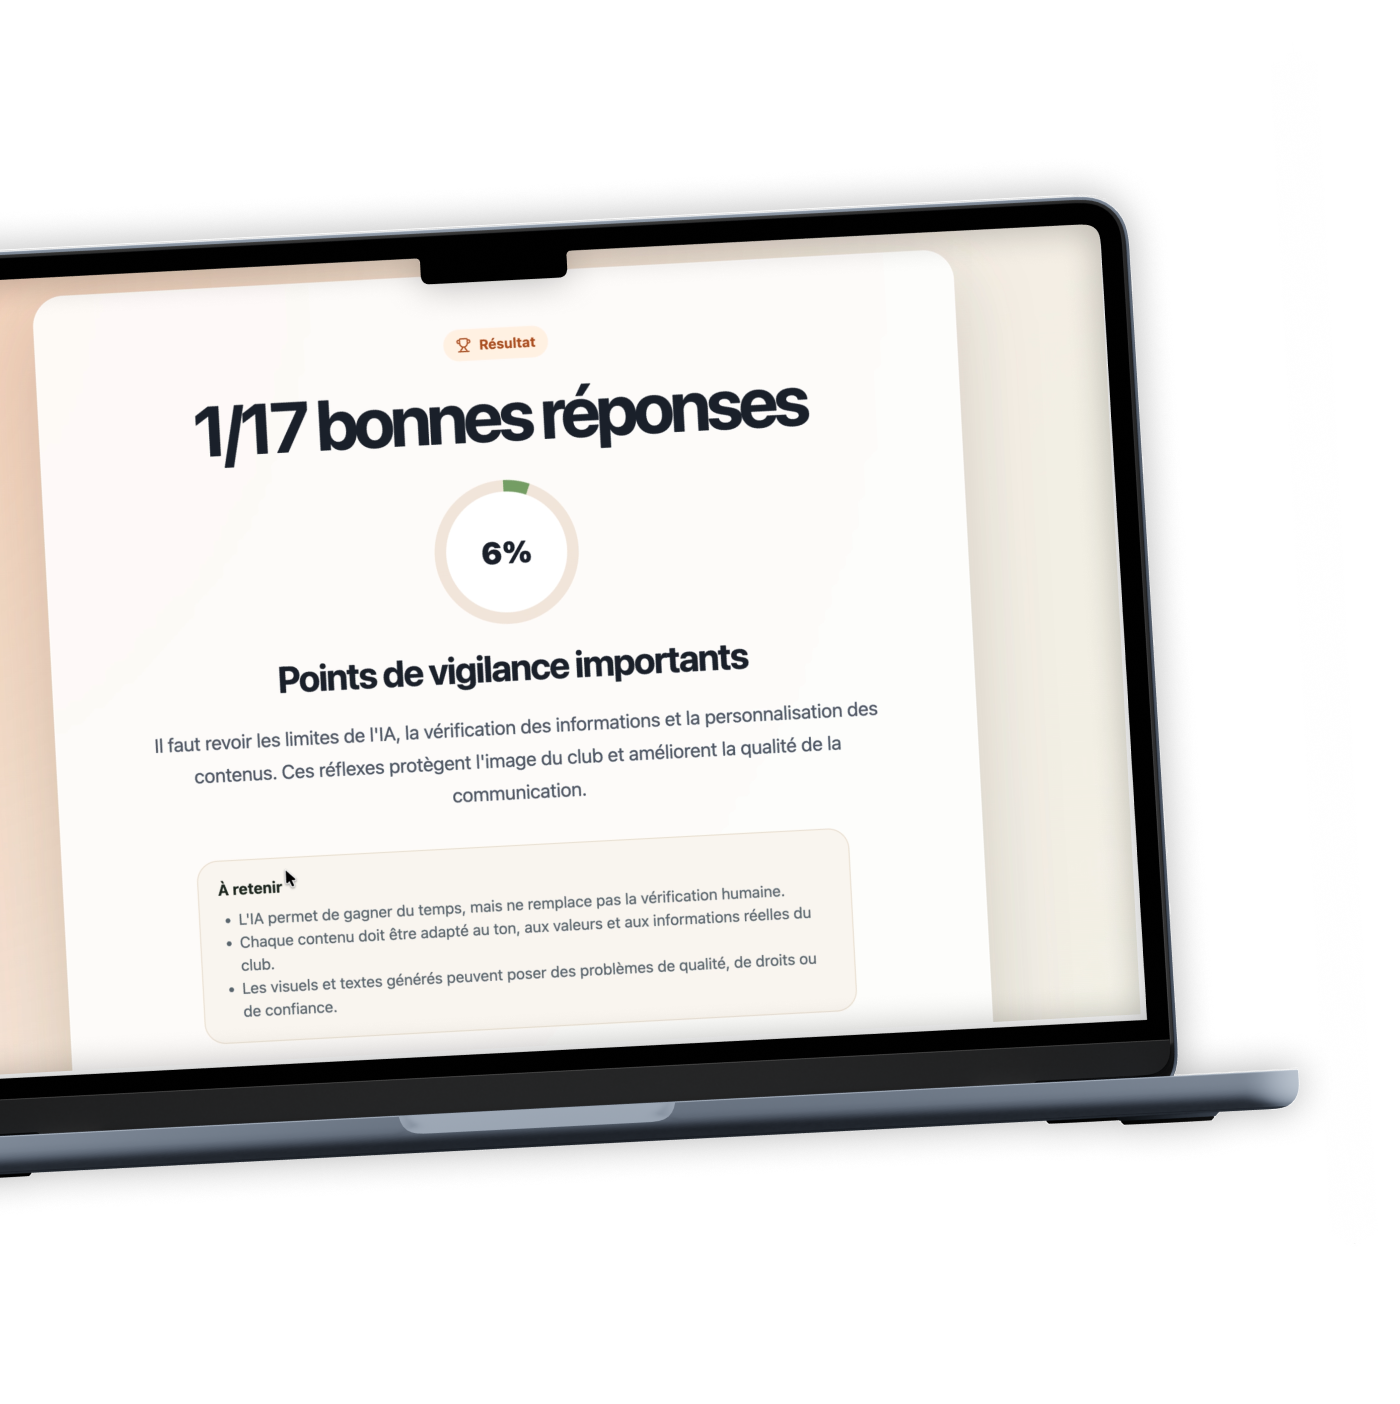
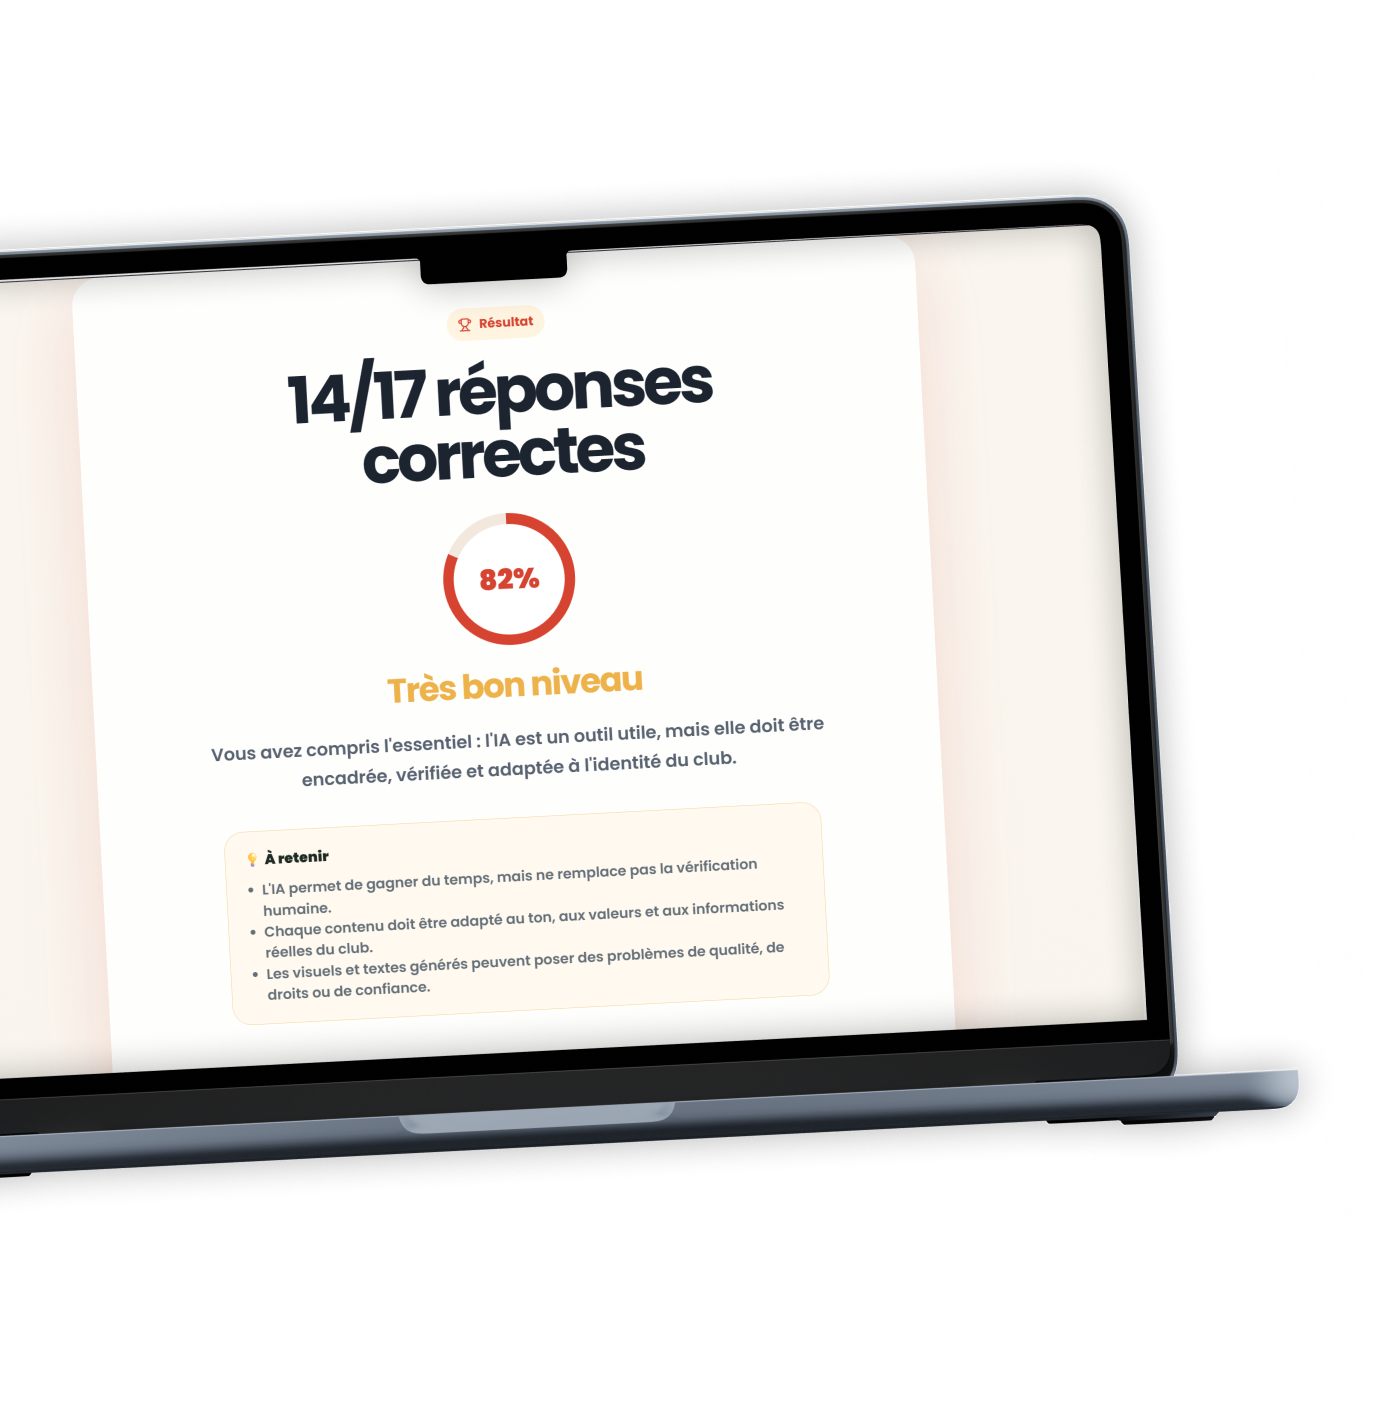
update assets and landing page style

diff --git a/src/styles.css b/src/styles.css
@@ -4,7 +4,7 @@
   font-style: normal;
   color: #1c2430;
   background: #ffffff;
-  --site-max-width: 1400px;
+  --site-max-width: 1279px;
   font-synthesis: none;
   text-rendering: optimizeLegibility;
 }
@@ -44,6 +44,65 @@ button {
   backdrop-filter: blur(18px);
 }
 
+.logo {
+  width: 100%;
+  padding: 40px 16px 0;
+  display: flex;
+  justify-content: center;
+  margin-inline: auto;
+  position: relative;
+  overflow: visible;
+}
+
+/* shared logo image */
+.logo .logo-placeholder {
+  position: relative;
+  z-index: 1;
+  /* width: 500px; */
+  height: auto;
+  background: none;
+  border-radius: 0;
+  display: block;
+  max-width: 100%;
+}
+
+/* header-specific semicircle (top) */
+.logo-header::before {
+  content: "";
+  position: absolute;
+  top: 0;
+  left: 50%;
+  transform: translateX(-50%);
+  width: min(380px, 80%);
+  height: 190px;
+  background: #ffffff;
+  border-radius: 0 0 999px 999px;
+  z-index: 0;
+}
+
+.logo-footer && logo {
+  padding-block-end: 20px;
+}
+
+/* footer-specific semicircle (inverted, bottom) */
+.logo-footer::after {
+  content: "";
+  position: absolute;
+  bottom: 0;
+  left: 50%;
+  transform: translateX(-50%);
+  width: min(380px, 80%);
+  height: 190px;
+  background: #ffffff;
+  border-radius: 999px 999px 0 0;
+  z-index: 0;
+}
+
+/* move only the footer logo up without moving the semicircle */
+.logo-footer .logo-placeholder {
+  transform: translateY(-50px);
+  padding-top: 150px;
+}
 .fade-in {
   animation: fadeIn 0.35s ease both;
 }
@@ -141,7 +200,6 @@ h2 {
   border-radius: 999px;
   padding: 14px 22px;
   cursor: pointer;
-  font-weight: 800;
   transition:
     transform 0.2s ease,
     box-shadow 0.2s ease,
@@ -449,28 +507,47 @@ h2 {
   padding: 40px 16px 0;
   display: flex;
   justify-content: center;
+  margin-inline: auto;
+  position: relative;
+  overflow: visible;
+}
+
+.logo-header::before {
+  content: "";
+  position: absolute;
+  top: 0;
+  left: 50%;
+  transform: translateX(-50%);
+  width: min(380px, 80%);
+  height: 190px;
+  background: #ffffff;
+  border-radius: 0 0 999px 999px;
+  z-index: 0;
 }
 
 .logo-placeholder {
-  width: 500px;
-  height: auto;
-  background: none;
-  border-radius: 0;
+  position: relative;
+  z-index: 1;
   display: block;
-  max-width: 100%;
 }
 
 .hero-wrapper {
-  background: radial-gradient(ellipse at top, #ffd2aa 0%, #fff7ec 100%);
+  background: radial-gradient(
+    circle at top center,
+    rgba(234, 70, 41, 0.4) 0%,
+    rgba(214, 67, 48, 0.35) 18%,
+    rgba(250, 222, 205, 0.9) 55%,
+    rgba(255, 247, 236, 1) 90%
+  );
 }
 
 .hero-section {
-  min-height: 60vh;
+  /* min-height: 50vh; */
   display: flex;
   flex-direction: column;
   align-items: center;
   justify-content: center;
-  padding: 60px 16px;
+  padding: 130px 16px 60px;
   text-align: center;
 }
 
@@ -484,7 +561,7 @@ h2 {
   max-width: 800px;
 }
 
-.hero-title .highlight {
+.highlight {
   color: #d64330;
   font-weight: 600;
 }
@@ -506,12 +583,12 @@ h2 {
   background-color: #faf7f2;
   background-image: url("/assets/vector_1.svg");
   background-repeat: no-repeat;
-  background-position: right -350px;
+  background-position: 0 -250px;
   background-size: 100% auto;
   padding: 150px 0;
   display: flex;
   flex-direction: column;
-  gap: 150px;
+  gap: 180px;
 }
 
 .content-section {
@@ -529,8 +606,13 @@ h2 {
   margin-bottom: 80px;
 }
 
+.section-content {
+  padding-top: 50px;
+  align-self: start;
+}
+
 .content-section:nth-of-type(odd) .section-content {
-  margin-inline-start: 20px;
+  margin-inline-start: 75px;
 }
 
 .section-content h2 {
@@ -559,6 +641,10 @@ h2 {
   justify-content: center;
 }
 
+.icon {
+  margin-bottom: 16px;
+}
+
 .image-placeholder {
   width: 100%;
   aspect-ratio: 4 / 3;
@@ -575,9 +661,15 @@ h2 {
 }
 
 .final-cta {
-  padding: 80px 16px;
+  padding: 80px 16px 0;
   text-align: center;
-  background: radial-gradient(ellipse at bottom, #ffd2aa 0%, #fff7ec 100%);
+  background: radial-gradient(
+    circle at bottom center,
+    rgba(234, 70, 41, 0.4) 0%,
+    rgba(214, 67, 48, 0.35) 18%,
+    rgba(250, 222, 205, 0.9) 55%,
+    rgba(255, 247, 236, 1) 90%
+  );
 }
 
 .final-cta h2 {

diff --git a/src/components/HomePage.jsx b/src/components/HomePage.jsx
@@ -5,9 +5,9 @@ export default function HomePage({ onStartQuiz }) {
     <main className="homepage">
       {/* Logo + Hero Section */}
       <div className="hero-wrapper">
-        <div className="logo-header">
+        <div className="logo logo-header">
           <img
-            src="/assets/logo_machina.svg"
+            src="/assets/logo_machina.png"
             alt="Logo du club"
             className="logo-placeholder"
           />
@@ -32,6 +32,11 @@ export default function HomePage({ onStartQuiz }) {
       <div className="content-wrapper">
         <section className="content-section">
           <div className="section-content">
+            <img
+              src="/assets/question.png"
+              alt="logo question"
+              className="icon"
+            />
             <h2>Répondez à des situations concrètes</h2>
             <p>
               Mettez-vous dans la peau d'un bénévole chargé de la communication
@@ -57,11 +62,12 @@ export default function HomePage({ onStartQuiz }) {
             />
           </div>
           <div className="section-content">
+            <img src="/assets/time.png" alt="logo horloge" className="icon" />
             <h2>Découvrez vos résultats et progressez</h2>
             <p>
-              Obtenez un débriefing personnalisé, identifiez vos points de
-              vigilance et découvrez les bonnes pratiques pour utiliser l'IA de
-              manière plus efficace et responsable.
+              Obtenez un débriefing, identifiez vos points de vigilance et
+              découvrez les bonnes pratiques pour utiliser l'IA de manière plus
+              efficace et responsable.
             </p>
           </div>
         </section>
@@ -69,6 +75,7 @@ export default function HomePage({ onStartQuiz }) {
         {/* Section 3: Repartez avec votre fiche mémo */}
         <section className="content-section">
           <div className="section-content">
+            <img src="/assets/doc.png" alt="logo fiche mémo" className="icon" />
             <h2>Repartez avec votre fiche mémo</h2>
             <p>
               À l'issue du parcours, recevez une fiche synthétique regroupant
@@ -88,7 +95,9 @@ export default function HomePage({ onStartQuiz }) {
 
       {/* CTA Section */}
       <section className="final-cta">
-        <h2>Prêt à relever le défi ?</h2>
+        <h2>
+          Prêt à relever le <span className="highlight">défi</span> ?
+        </h2>
         <p>
           Testez vos connaissances, découvrez les bonnes pratiques et améliorez
           votre communication en seulement quelques minutes.
@@ -96,6 +105,13 @@ export default function HomePage({ onStartQuiz }) {
         <button className="secondary-button" onClick={onStartQuiz}>
           Commencer
         </button>
+        <div className="logo logo-footer">
+          <img
+            src="/assets/logo_machina.png"
+            alt="Logo du club"
+            className="logo-placeholder"
+          />
+        </div>
       </section>
     </main>
   );

diff --git a/src/components/Quiz.jsx b/src/components/Quiz.jsx
@@ -14,14 +14,12 @@ export default function Quiz({ onExit }) {
   const [currentIndex, setCurrentIndex] = useState(0);
   const [selectedIndex, setSelectedIndex] = useState(null);
   const [answers, setAnswers] = useState([]);
-  const [timeLeft, setTimeLeft] = useState(2);
+  const [timeLeft, setTimeLeft] = useState(240);
   const [step, setStep] = useState("quiz");
 
   const currentQuestion = questions[currentIndex];
   const score = answers.filter((answer) => answer.isCorrect).length;
   const percentage = Math.round((score / questions.length) * 100);
-
-
 
   useEffect(() => {
     if (step !== "quiz") return;
@@ -111,7 +109,7 @@ export default function Quiz({ onExit }) {
               Question {currentIndex + 1}/{questions.length}
             </span>
             <span>
-             ⏱ {Math.floor(timeLeft / 60)}:
+              ⏱ {Math.floor(timeLeft / 60)}:
               {String(timeLeft % 60).padStart(2, "0")}
             </span>
           </div>
@@ -182,9 +180,7 @@ export default function Quiz({ onExit }) {
             <Trophy size={16} /> Résultat
           </div>
 
-          <h1>
-            {score}/17 réponses correctes
-          </h1>
+          <h1>{score}/17 réponses correctes</h1>
 
           <div
             className="score-circle"
@@ -217,7 +213,7 @@ export default function Quiz({ onExit }) {
           </div>
 
           <div className="review-card">
-            <h3>📋 Votre fiche d'apprentissage personnalisée</h3>
+            <h3>📋 Votre fiche d'apprentissage</h3>
 
             <p className="review-intro">
               Retrouvez ci-dessous vos réponses ainsi que les bonnes pratiques à
@@ -279,22 +275,21 @@ export default function Quiz({ onExit }) {
               Télécharger mon bilan
             </button>
 
-          <div className="actions">
-            <button className="secondary-button" onClick={startQuiz}>
-              <RotateCcw size={18} /> Refaire le quiz
-            </button>
+            <div className="actions">
+              <button className="secondary-button" onClick={startQuiz}>
+                <RotateCcw size={18} /> Refaire le quiz
+              </button>
 
-            <button
-              className="primary-button"
-              onClick={() => {
-                if (onExit) onExit();
-              }}
-            >
-              Terminer
-            </button>
+              <button
+                className="primary-button"
+                onClick={() => {
+                  if (onExit) onExit();
+                }}
+              >
+                Terminer
+              </button>
+            </div>
           </div>
-          </div>
-
         </div>
       )}
 

diff --git a/README.md b/README.md
@@ -11,7 +11,6 @@ Mini application React + Vite réalisée à partir d'une fiche de cadrage sur un
 - Réponse incorrecte en rouge
 - Explication pédagogique après chaque réponse
 - Score final
-- Conseil personnalisé selon le score
 - Écran de remerciement
 
 ## Installation
